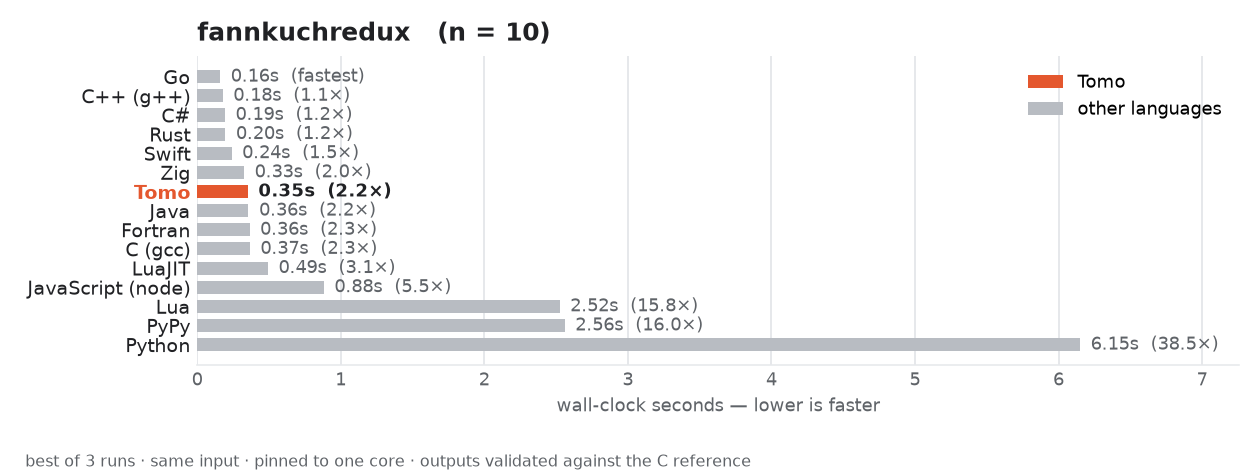
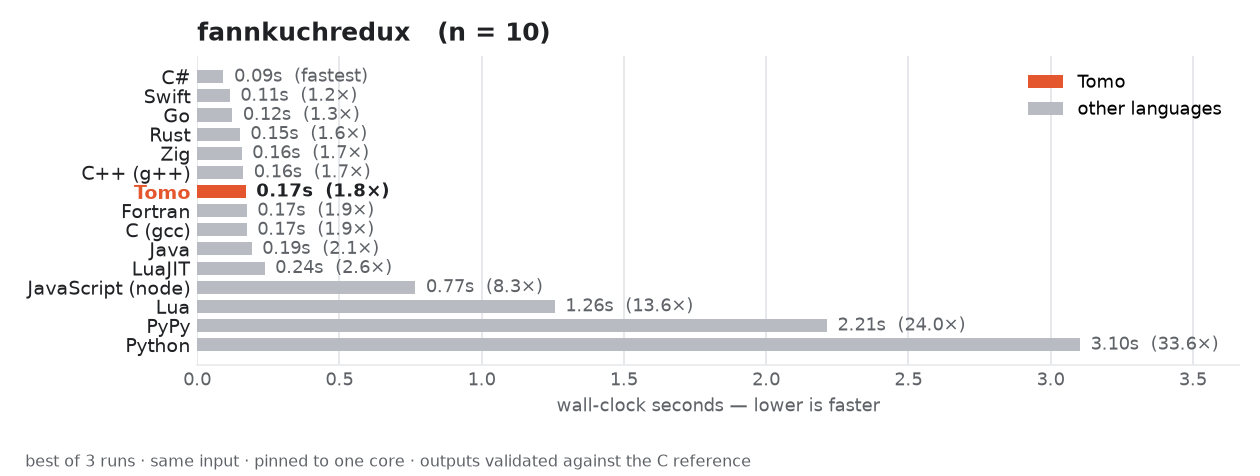
Regenerate benchmark graphs with the List$insert bulk-copy fix
Fresh full run of all nine benchmarks (best of 3, pinned to one core,
every output validated) with the List$insert bulk-copy fix in place.
reverse-complement drops from 0.60s to 0.45s in the checked-in snapshot;
other benchmarks are within normal run-to-run noise. README updated with
the fresh numbers and a second "runtime fix this benchmark suite found"
paragraph documenting the List$insert bug and its general benefit beyond
just this benchmark.

diff --git a/benchmarks/README.md b/benchmarks/README.md
@@ -34,13 +34,12 @@ language.
 
 Of the four newer benchmarks, **mandelbrot** is a standout: at 0.70s Tomo
 *beats* the (multithreaded, core-pinned) C and Go entries outright, trailing
-only Rust, C++, and Java. **reverse-complement** at 0.60s is mid-pack, ahead of
-C++, PyPy, and Lua. **spectral-norm** at 1.16s is ~1.9× C, ahead of Go, C#,
-Java, and every scripting language. **pidigits** — a pure GMP bignum stress
-test — is Tomo's weakest relative showing at 4.6× C, but still 4th of 9,
-comfortably ahead of Python, PyPy, Java, C#, and JavaScript; getting there also
-surfaced and fixed a real leak in the runtime's bignum/GC integration (see
-below).
+only Rust, C++, and Java. **reverse-complement** at 0.45s is mid-pack, ahead of
+JavaScript, PyPy, C++, and Lua. **spectral-norm** at 1.16s is ~1.9× C, ahead of
+Go, C#, Java, and every scripting language. **pidigits** — a pure GMP bignum
+stress test — is Tomo's weakest relative showing at ~4.8× C, but still 4th of
+9, comfortably ahead of Python, PyPy, Java, C#, and JavaScript. Two runtime
+bugs surfaced (and got fixed) while chasing these numbers down — see below.
 
 The top of each compute chart is crowded with fast natives — Zig, Nim,
 Fortran, and Rust routinely lead — but no garbage-collected, memory-safe
@@ -48,7 +47,7 @@ language in the set is dramatically ahead of Tomo, and the scripting languages
 trail it everywhere, often by one or two orders of magnitude (Python is
 50–300× slower than the fastest entry on several benchmarks here).
 
-### A runtime fix this benchmark suite found
+### Two runtime fixes this benchmark suite found
 
 Timing **pidigits** turned up a genuine bug: every `Int` bignum's GMP limb
 storage was allocated with GMP's default (plain `malloc`) allocator, so the
@@ -58,6 +57,17 @@ continuously. Routing GMP's allocation hooks through the GC
 pidigits (n=10000) dropped from **~11.3 GB to 12 MB**, and wall time from
 6.75s to 1.75s, since the GC was no longer thrashing over gigabytes of leaked
 limbs.
+
+Profiling **reverse-complement** (which builds its output with a per-byte
+`out.insert(c)`) turned up a second one: `List$insert`'s growth path copied
+the *entire* existing list one element at a time via a separate `memcpy()`
+call per item, even when the data was already tightly packed and a single
+bulk `memcpy` would do. `perf` showed a quarter of total runtime spent inside
+those one-byte `memcpy` calls. Fixed to bulk-copy contiguous lists (the common
+case, including every plain append-via-`insert`); reverse-complement dropped
+from 0.60s to 0.45s and k-nucleotide (which builds its sequence the same way)
+improved too. This is a general fix — it speeds up any Tomo code that builds
+a list via repeated `insert()`, not just these two benchmarks.
 
 Per-benchmark graphs: [n-body](results-nbody.png) ·
 [fannkuch-redux](results-fannkuchredux.png) · [fasta](results-fasta.png) ·
